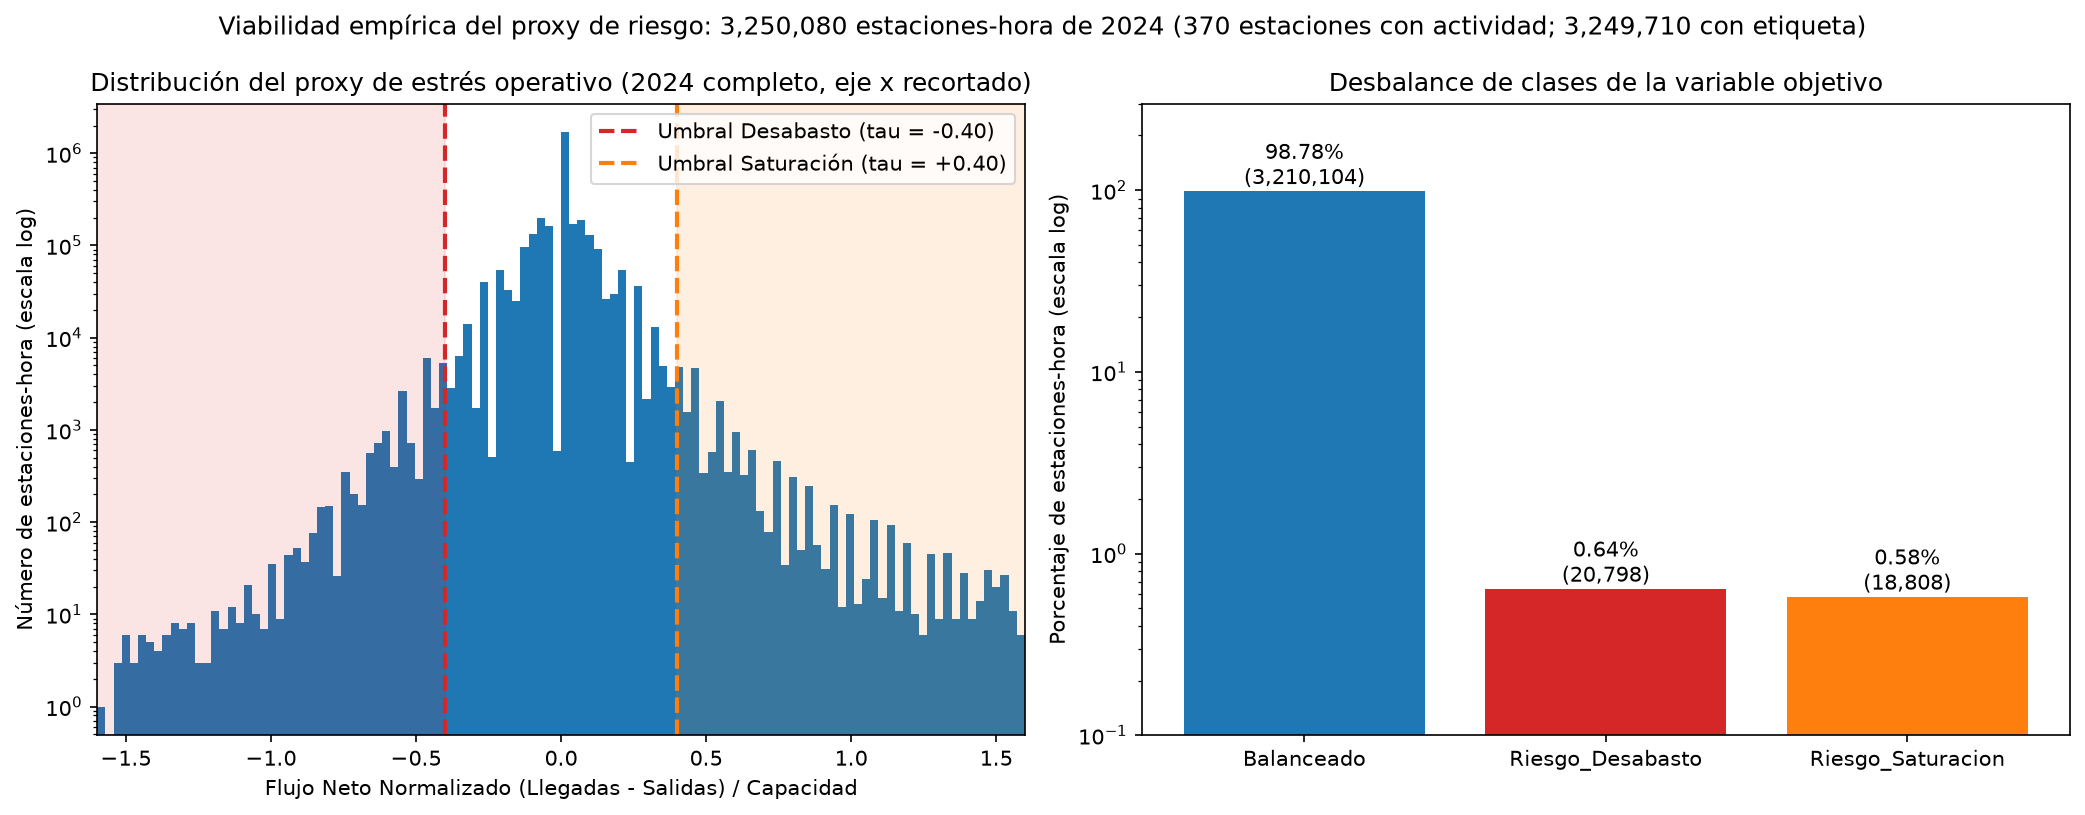
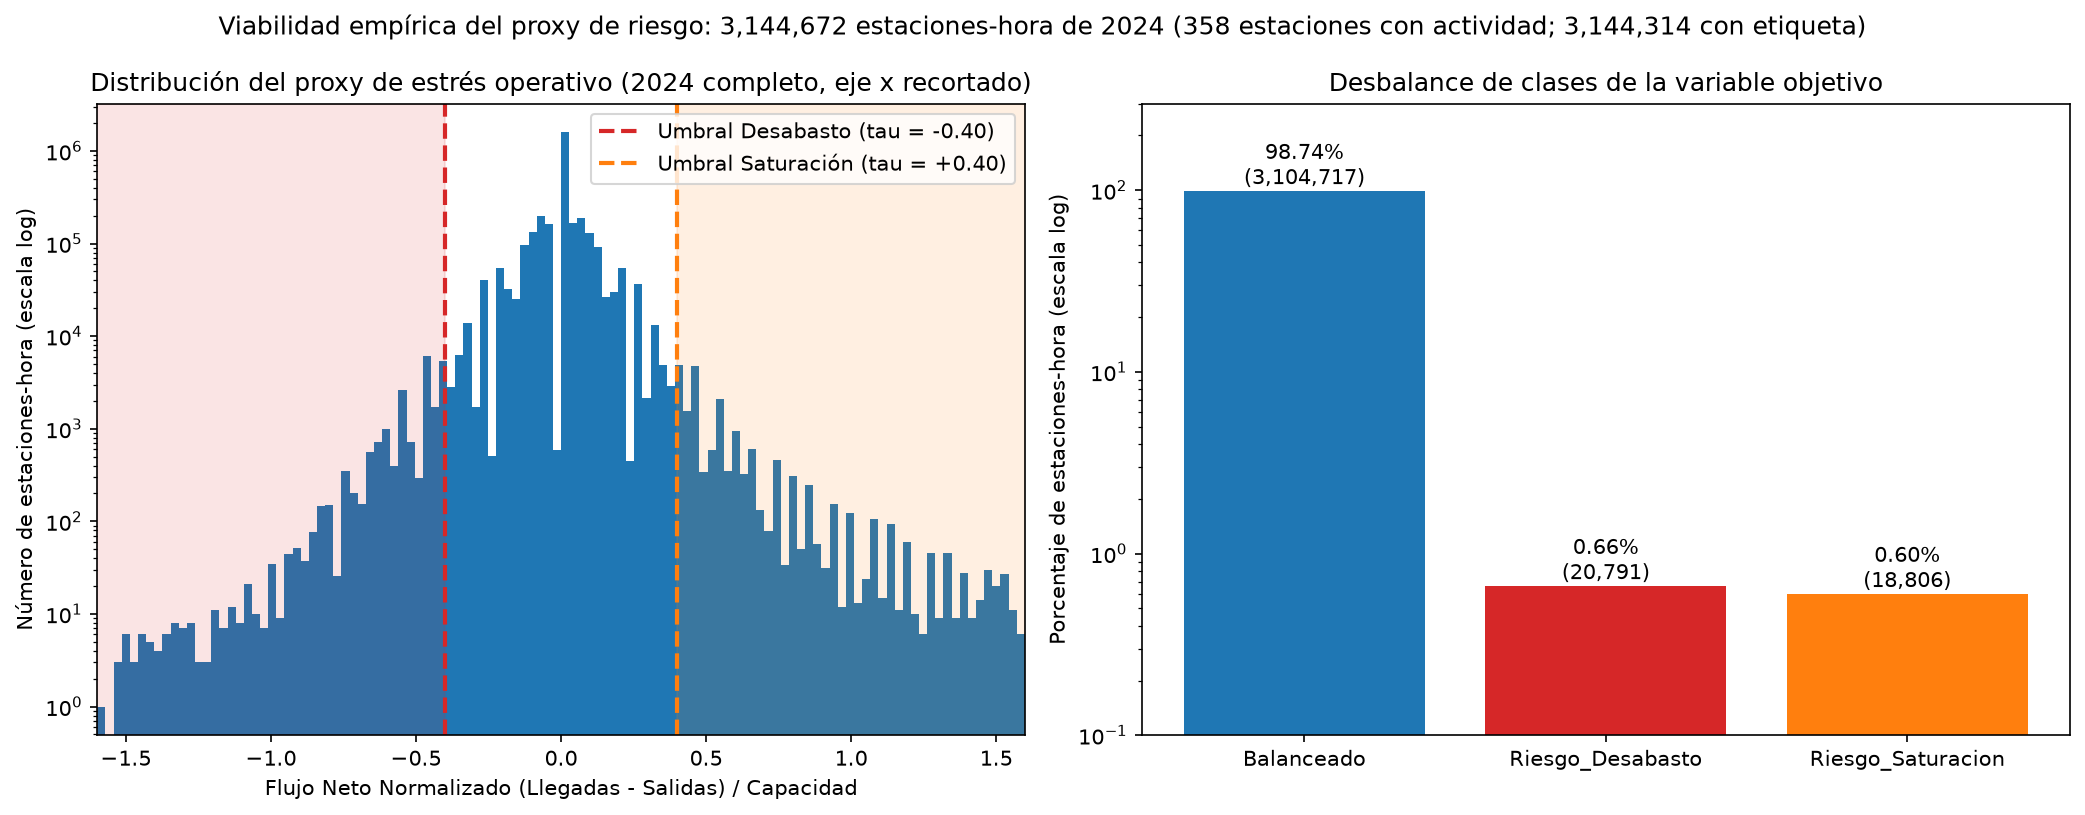
docs: update the risk proxy numbers to the 358-station panel
Measured on the 358-station panel the class shares are 98.74 / 0.66 / 0.60 and the critical events 1.26%. Figure 04 is regenerated and the study-period report, the P2 canvas and the notebook are updated. The 360 figure is explained: it is the roster of a typical month.

diff --git a/reports/justificacion_periodo_estudio.md b/reports/justificacion_periodo_estudio.md
@@ -24,7 +24,7 @@ A partir de un Análisis Exploratorio de Datos (EDA) estructurado y reproducible
    - **3,825,000+ viajes registrados** distribuidos en 360 estaciones activas estables.
    - Calidad de datos sobresaliente: **0.0% de valores nulos** en variables clave (`Viaje_Id`, `Origen_Id`, `Destino_Id`, `Inicio_del_viaje`, `Fin_del_viaje`).
    - Eficiencia de serialización: La conversión de los 367.38 MB de CSV originales a formato Parquet con compresión Snappy reduce el tamaño en disco a **~139.6 MB (62.0% de ahorro)**, optimizando los tiempos de I/O en pipelines de entrenamiento.
-4. **Validación empírica del proxy de riesgo para P2:** Con un umbral de estrés operativo $\tau = 0.40$ sobre el flujo neto normalizado, la distribución empírica resultante exhibe un **98.78% de estados balanceados, 0.64% de riesgo de desabasto y 0.58% de riesgo de saturación**. Este desbalance del 1.22% de eventos críticos justifica formally el descarte de *Accuracy* y el uso obligatorio de *Macro F1* y *PR-AUC*.
+4. **Validación empírica del proxy de riesgo para P2:** Con un umbral de estrés operativo $\tau = 0.40$ sobre el flujo neto normalizado, la distribución empírica resultante exhibe un **98.74% de estados balanceados, 0.66% de riesgo de desabasto y 0.60% de riesgo de saturación**. Este desbalance del 1.26% de eventos críticos justifica formally el descarte de *Accuracy* y el uso obligatorio de *Macro F1* y *PR-AUC*.
 5. **Partición temporal estricta (*Zero Data Leakage*):** Se fijó cronológicamente la partición en **Train (Ene–Sep 2024, 75.0%)**, **Validation (Oct–Nov 2024, 16.7%)** y **Test Out-of-Time (Dic 2024, 8.3%)**, previniendo la fuga catastrófica de información futura que causaría un `train_test_split` aleatorio convencional.
 
 ---
@@ -196,27 +196,28 @@ $$Y_{s,t}^{\text{P2}} = \begin{cases}
 
 ### 5.3 Distribución Empírica y Justificación de Métricas
 
-La evaluación empírica de este proxy sobre la cuadrícula completa de 2024 (370 estaciones con actividad × 8,784 horas = 3,250,080 estaciones-hora; 3,249,710 con etiqueta) arrojó la siguiente distribución de clases:
+> **Universo del panel:** el catálogo nominal tiene 484 estaciones; 360 operaron en un mes típico (ene–may, jul–nov), 370 tuvieron actividad en algún momento del año y **358 operaron de forma continua los 12 meses**. Se adoptan las 358 para no rellenar con ceros meses en los que la estación no existía (las 12 restantes solo operaron 1, 6 o 7 meses).
+La evaluación empírica de este proxy sobre la cuadrícula completa de 2024 (358 estaciones con operación continua los 12 meses × 8,784 horas = 3,144,672 estaciones-hora; 3,144,314 con etiqueta) arrojó la siguiente distribución de clases:
 
 | Clase Operativa ($Y^{\text{P2}}$) | Condición Matemática | Proporción Empírica (%) | Interpretación Operativa en MiBici |
 |:---|:---:|:---:|:---|
-| **Balanceado** | $-0.40 < \Delta_{s,t} < 0.40$ | **98.78%** | Operación normal; la estación cuenta con disponibilidad suficiente de bicicletas y anclajes. |
-| **Riesgo_Desabasto** | $\Delta_{s,t} \le -0.40$ | **0.64%** | Demanda saliente crítica; riesgo inminente de estación vacía si no se rebalancea. |
-| **Riesgo_Saturacion** | $\Delta_{s,t} \ge 0.40$ | **0.58%** | Flujo entrante crítico; riesgo inminente de estación llena donde los usuarios no pueden devolver la bici. |
+| **Balanceado** | $-0.40 < \Delta_{s,t} < 0.40$ | **98.74%** | Operación normal; la estación cuenta con disponibilidad suficiente de bicicletas y anclajes. |
+| **Riesgo_Desabasto** | $\Delta_{s,t} \le -0.40$ | **0.66%** | Demanda saliente crítica; riesgo inminente de estación vacía si no se rebalancea. |
+| **Riesgo_Saturacion** | $\Delta_{s,t} \ge 0.40$ | **0.60%** | Flujo entrante crítico; riesgo inminente de estación llena donde los usuarios no pueden devolver la bici. |
 
 ```
                        Distribución de Clases Proxy P2 (tau = 0.40)
-  Balanceado (98.78%)        [██████████████████████████████████████████████] 98.78%
-  Riesgo_Desabasto (0.64%)   [█] 0.64%
-  Riesgo_Saturacion (0.58%)  [█] 0.58%
+  Balanceado (98.74%)        [██████████████████████████████████████████████] 98.74%
+  Riesgo_Desabasto (0.66%)   [█] 0.66%
+  Riesgo_Saturacion (0.60%)  [█] 0.60%
 ```
 
 ![Figura 4: Proxy de Riesgo P2 - Distribución y Clases](figures/04_p2_proxy_riesgo_distribucion.png)
-*Figura 4: Distribución del Flujo Neto Normalizado ($\Delta$) y proporciones de las clases operativas resultantes para el problema P2, calculadas sobre el año 2024 completo (cuadrícula estación-hora).*
+*Figura 4: Distribución del Flujo Neto Normalizado ($\Delta$) y proporciones de las clases operativas resultantes para el problema P2, calculadas sobre el año 2024 completo con las 358 estaciones de operación continua.*
 
 #### Justificación Metodológica para la Rúbrica:
-Esta distribución empírica evidencia un **severo desbalance de clases**, donde los eventos operativos críticos (desabasto y saturación) representan conjuntamente el **1.22%** de las observaciones estación-hora.
-- Si se utilizara **Exactitud (*Accuracy*)** como métrica de evaluación, un modelo trivial o "ingenuo" que prediga siempre la clase mayoritaria `Balanceado` obtendría un 98.78% de exactitud, pero fracasaría por completo en su objetivo de negocio (detectaría 0 eventos de riesgo).
+Esta distribución empírica evidencia un **severo desbalance de clases**, donde los eventos operativos críticos (desabasto y saturación) representan conjuntamente el **1.26%** de las observaciones estación-hora.
+- Si se utilizara **Exactitud (*Accuracy*)** como métrica de evaluación, un modelo trivial o "ingenuo" que prediga siempre la clase mayoritaria `Balanceado` obtendría un 98.74% de exactitud, pero fracasaría por completo en su objetivo de negocio (detectaría 0 eventos de riesgo).
 - Por lo tanto, se justifica formalmente que la función objetivo y métricas de evaluación para P2 deban ser obligatoriamente:
   1. **Macro F1-Score:** Pondera por igual el desempeño en las clases minoritarias críticas sin permitir que la clase dominante infle artificialmente la métrica.
   2. **PR-AUC (Área bajo la Curva Precision-Recall):** Mide la capacidad del modelo para priorizar estaciones en riesgo minimizando falsas alarmas operativas.

diff --git a/docs/docs/justificacion-periodo-estudio.md b/docs/docs/justificacion-periodo-estudio.md
@@ -21,7 +21,7 @@ A través de un Análisis Exploratorio de Datos (EDA) reproducible ejecutado en 
 | **Topología de Red** | Expansión variable (86 a 274 estaciones) | **360 estaciones activas estables** | Elimina sesgo espacial por estaciones inexistentes en fases previas. |
 | **Estabilidad de Demanda** | Ruptura estructural por COVID-19 (-60.3% en 2020) | **Régimen maduro (~3.82M viajes anuales)** | Evita que patrones atípicos de confinamiento contaminen el entrenamiento. |
 | **Calidad de Registros** | Formatos dispersos en CSV | **0.0% nulos en variables clave; Parquet Snappy** | Ahorro del 62.0% en almacenamiento (~139.6 MB) y carga columnar ultrarrápida. |
-| **Proxy de Riesgo (P2)** | No disponible en inventario directo | **Flujo neto normalizado ($\Delta_{s,t}$) calibrado** | 1.22% de eventos críticos (98.78% balanceado); justifica Macro F1 y PR-AUC ante desbalance. |
+| **Proxy de Riesgo (P2)** | No disponible en inventario directo | **Flujo neto normalizado ($\Delta_{s,t}$) calibrado** | 1.26% de eventos críticos (98.74% balanceado); justifica Macro F1 y PR-AUC ante desbalance. |
 | **Partición de Datos** | Fuga por split aleatorio convencional | **Partición temporal estricta (Train/Val/Test OOT)** | Cero fuga de información (*zero data leakage*); evaluación ciega sobre fin de año. |
 
 ---
@@ -190,21 +190,22 @@ $$Y_{s,t}^{\text{P2}} = \begin{cases}
 
 ### 5.3 Distribución Empírica y Justificación de Métricas
 
-La evaluación empírica del proxy sobre la cuadrícula completa de 2024 (370 estaciones con actividad × 8,784 horas = 3,250,080 estaciones-hora; 3,249,710 con etiqueta) arrojó la siguiente distribución de estados operativos:
+> **Universo del panel:** el catálogo nominal tiene 484 estaciones; 360 operaron en un mes típico (ene–may, jul–nov), 370 tuvieron actividad en algún momento del año y **358 operaron de forma continua los 12 meses**. Se adoptan las 358 para no rellenar con ceros meses en los que la estación no existía (las 12 restantes solo operaron 1, 6 o 7 meses).
+La evaluación empírica del proxy sobre la cuadrícula completa de 2024 (358 estaciones con operación continua los 12 meses × 8,784 horas = 3,144,672 estaciones-hora; 3,144,314 con etiqueta) arrojó la siguiente distribución de estados operativos:
 
 | Estado Operativo ($Y^{\text{P2}}$) | Condición Formal | Proporción Empírica (%) | Interpretación Operativa en MiBici |
 |:---|:---:|:---:|:---|
-| **Balanceado** | $-0.40 < \Delta_{s,t} < 0.40$ | **98.78%** | Operación normal; disponibilidad suficiente de bicicletas y anclajes. |
-| **Riesgo_Desabasto** | $\Delta_{s,t} \le -0.40$ | **0.64%** | Demanda saliente crítica; riesgo inminente de estación vacía si no se rebalancea. |
-| **Riesgo_Saturacion** | $\Delta_{s,t} \ge 0.40$ | **0.58%** | Flujo entrante crítico; riesgo inminente de estación llena donde los usuarios no pueden anclar. |
+| **Balanceado** | $-0.40 < \Delta_{s,t} < 0.40$ | **98.74%** | Operación normal; disponibilidad suficiente de bicicletas y anclajes. |
+| **Riesgo_Desabasto** | $\Delta_{s,t} \le -0.40$ | **0.66%** | Demanda saliente crítica; riesgo inminente de estación vacía si no se rebalancea. |
+| **Riesgo_Saturacion** | $\Delta_{s,t} \ge 0.40$ | **0.60%** | Flujo entrante crítico; riesgo inminente de estación llena donde los usuarios no pueden anclar. |
 
 ![Figura 4: Proxy de Riesgo P2 - Distribución y Clases](figures/04_p2_proxy_riesgo_distribucion.png)
-*Figura 4: Distribución del Flujo Neto Normalizado ($\Delta$) y proporciones de las clases operativas resultantes para el problema P2, calculadas sobre el año 2024 completo (cuadrícula estación-hora).*
+*Figura 4: Distribución del Flujo Neto Normalizado ($\Delta$) y proporciones de las clases operativas resultantes para el problema P2, calculadas sobre el año 2024 completo con las 358 estaciones de operación continua.*
 
 !!! important "Desbalance Severo de Clases y Descarte de Accuracy"
-    Los eventos operativos críticos (desabasto 0.64% y saturación 0.58%) representan conjuntamente el **1.22% de las observaciones estación-hora**:
+    Los eventos operativos críticos (desabasto 0.66% y saturación 0.60%) representan conjuntamente el **1.26% de las observaciones estación-hora**:
 
-    - Si se utilizara **Exactitud (*Accuracy*)** como métrica de evaluación, un modelo trivial o "ingenuo" que prediga siempre la clase mayoritaria `Balanceado` obtendría un **98.78% de exactitud**, pero fracasaría por completo en su objetivo operativo (detectaría 0 eventos de riesgo).
+    - Si se utilizara **Exactitud (*Accuracy*)** como métrica de evaluación, un modelo trivial o "ingenuo" que prediga siempre la clase mayoritaria `Balanceado` obtendría un **98.74% de exactitud**, pero fracasaría por completo en su objetivo operativo (detectaría 0 eventos de riesgo).
     - Por lo tanto, se justifica formalmente que la función objetivo y métricas de evaluación para P2 deban ser obligatoriamente:
         1. **Macro F1-Score:** Pondera por igual el desempeño en las clases minoritarias críticas sin permitir que la clase dominante infle artificialmente la métrica.
         2. **PR-AUC (Área bajo la Curva Precision-Recall):** Mide la capacidad del modelo para priorizar estaciones en riesgo minimizando falsas alarmas operativas.

diff --git a/docs/docs/canvases/p2-riesgo.md b/docs/docs/canvases/p2-riesgo.md
@@ -89,7 +89,7 @@
 ## 8. Métricas de Evaluación (Evaluation)
 
 !!! important "Métricas Obligatorias ante Desbalance"
-    Debido a que la clase mayoritaria `Balanceado` representa el 98.78% de las observaciones, se descarta *Accuracy* como métrica decisional:
+    Debido a que la clase mayoritaria `Balanceado` representa el 98.74% de las observaciones, se descarta *Accuracy* como métrica decisional:
 
     - **Métrica Primaria:** **Macro F1-Score** $\ge 0.72$ (pondera por igual las tres clases).
     - **Métrica de Detección:** **Recall en Desabasto** $\ge 85\%$ (minimiza usuarios varados sin bici).
